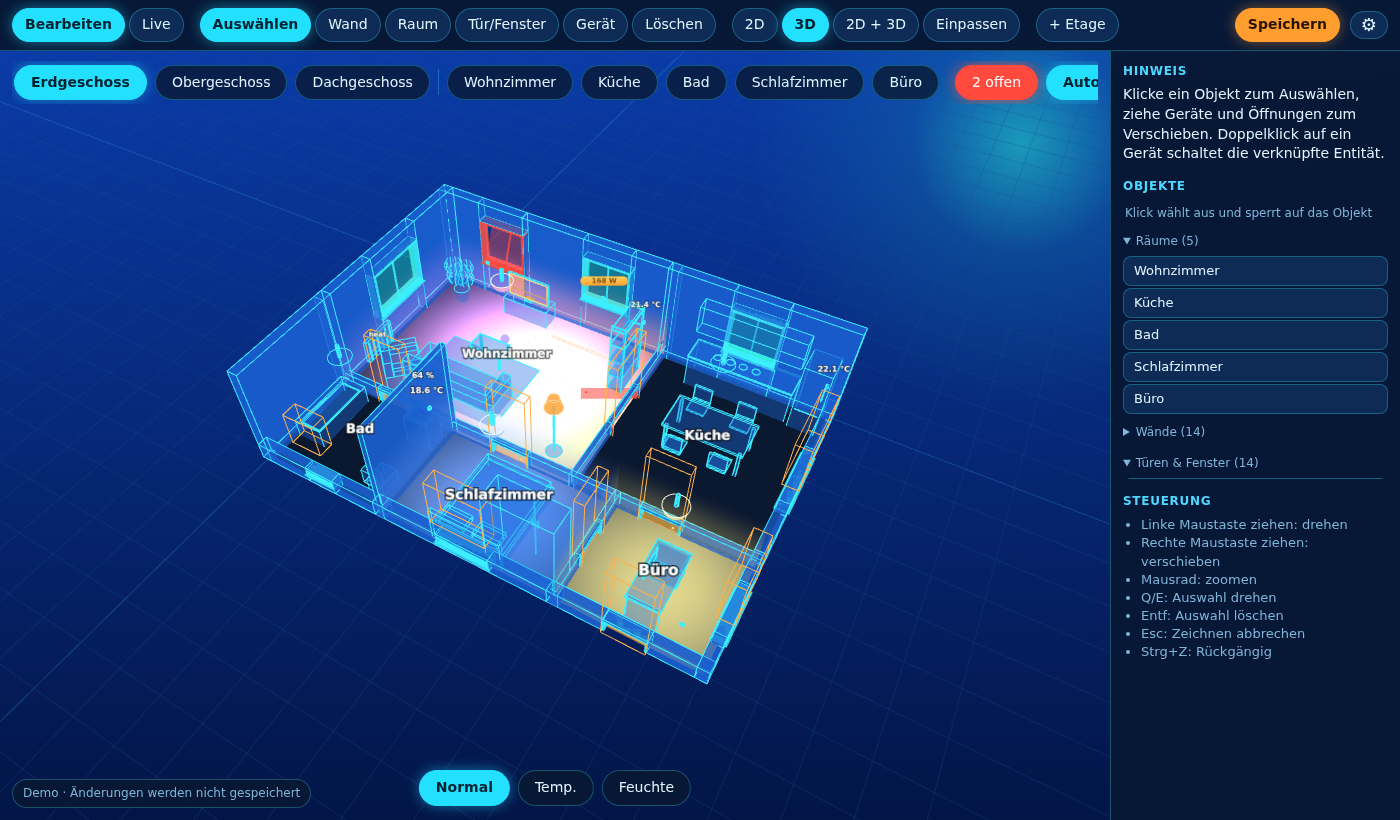
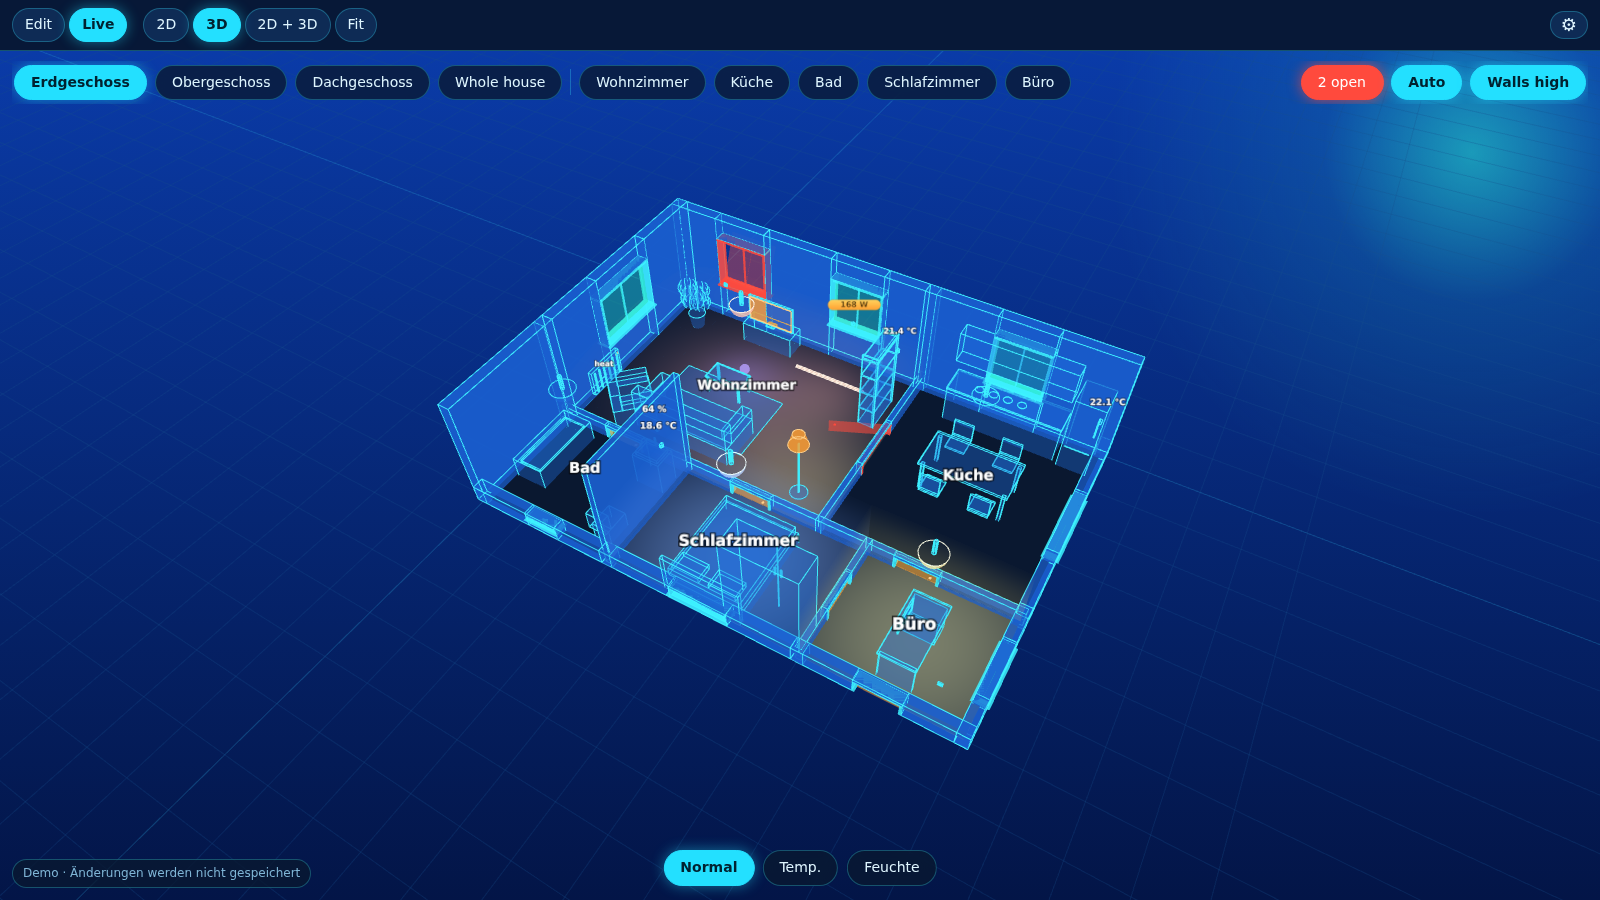
1.8.1: new README with feature overview and screenshots, architecture notes, house selector fix
Claude-Session: https://claude.ai/code/session_01Co8i9MW1FxCgsyBxKaj1v4

diff --git a/demo/demo-data.js b/demo/demo-data.js
@@ -134,7 +134,7 @@ const entities = {
 };
 
 let settings = {
-  language: 'de', theme: 'holo', units: 'metric', grid: 0.25, wallHeight: 2.6, wallThickness: 0.2,
+  language: 'en', theme: 'holo', units: 'metric', grid: 0.25, wallHeight: 2.6, wallThickness: 0.2,
   shadows: true, autosaveSeconds: 1.5, lowWalls: false, showLabels: true, cutaway: true,
 };
 

diff --git a/floorplan3d/rootfs/app/static/style.css b/floorplan3d/rootfs/app/static/style.css
@@ -267,3 +267,4 @@ body.kiosk #houseGroup { display: none; }
 #panelResizer:hover, #panelResizer.drag { background: var(--accent); opacity: .5; }
 body.live #panelResizer { display: none; }
 @media (max-width: 700px) { #panelResizer { display: none; } }
+#houseGroup[hidden] { display: none; }

diff --git a/README.md b/README.md
@@ -1,8 +1,8 @@
 <div align="center">
 
-# 3D Floorplan for Home Assistant
+# 🏠 3D Floorplan for Home Assistant
 
-**Draw your home, see it in 3D and control it right where things are.**
+### Draw your home, see it in 3D and control it right where things are.
 
 [![CI](https://github.com/wvssweber-max/HA-Floorplanner/actions/workflows/ci.yml/badge.svg)](https://github.com/wvssweber-max/HA-Floorplanner/actions/workflows/ci.yml)
 [![Release](https://img.shields.io/github/v/release/wvssweber-max/HA-Floorplanner?display_name=tag&sort=semver)](https://github.com/wvssweber-max/HA-Floorplanner/releases)
@@ -10,47 +10,127 @@
 ![Home Assistant add-on](https://img.shields.io/badge/Home%20Assistant-add--on-41BDF5?logo=homeassistant&logoColor=white)
 ![Ingress](https://img.shields.io/badge/Ingress-yes-success)
 ![No build step](https://img.shields.io/badge/frontend-no%20build%20step-lightgrey)
+![Made with love](https://img.shields.io/badge/made%20with-%E2%9D%A4-e0245e)
 
 [![Add repository to my Home Assistant](https://my.home-assistant.io/badges/supervisor_add_addon_repository.svg)](https://my.home-assistant.io/redirect/supervisor_add_addon_repository/?repository_url=https%3A%2F%2Fgithub.com%2Fwvssweber-max%2FHA-Floorplanner)
 
-![3D and 2D split view](docs/img/split.png)
+<img src="docs/img/3d.png" alt="3D hologram view of an apartment with live lights, sensors and open windows" width="900">
+
+*Your own floor plan as a glowing 3D hologram, live with your real lights, sensors, windows and scenes.*
+
+**[Features](#-features) · [Installation](#-installation) · [Quick start](#-quick-start) · [Tablets](#-wall-tablets--kiosk) · [Documentation](#-documentation) · [Roadmap](ROADMAP.md)**
 
 </div>
 
-> **Status: early development (0.x).** It works and is used daily, but layouts are stored in a versioned JSON format that may be migrated between releases. See the [roadmap](ROADMAP.md) and the [milestones](https://github.com/wvssweber-max/HA-Floorplanner/milestones).
+---
 
-## Highlights
+## ✨ Why this add-on?
+
+Most floor plan cards make you place icons on a picture. **3D Floorplan** lets you *build* your home: walls, rooms, doors, windows, stairs and furniture, then see it as a real 3D model in which every device is bound to a Home Assistant entity. Tap a lamp where it stands, switch a whole room, start a scene, see which window is open, all in one place, on your phone, your desktop or a wall tablet.
+
+It is made with a lot of love for my own smart home, and it is used every day. I hope it makes yours a little nicer, too. 💙
+
+## 🎯 Features
+
+### 🏗 Build your home
 
 | | |
 | --- | --- |
-| **Draw it yourself** | Walls, rooms and several floors on a snapping grid, in a 2D blueprint editor that is linked live with the 3D view (split view). Load a scan of your floor plan as a template and trace it. Placeholder blocks for floors you do not draw, stairs and stairwells with floor openings, basements, roofs, garden objects and a whole-house view |
-| **Real 3D** | Orbit, pan, zoom; doors and windows cut real openings; low-wall mode; translucent neon hologram design |
-| **Home Assistant native** | Every device is bound to an entity; lights glow in their real colour, sensors show values, HA areas group your entities |
-| **Whole room at once** | Switch all lights of a room, set colour for all of them and start the room's scenes in one place |
-| **Effects and colour** | Colour, brightness and warm/cold white per light; effect lists of Nanoleaf, WLED, Hue and others |
-| **Heat and humidity views** | Temperature and humidity colour the rooms |
-| **Permissions** | Only administrators edit; everyone else gets a read-only live view, enforced in the backend |
-| **Tablets** | One Home Assistant user per wall tablet: starts in its room, sees only the views you allow |
-| **Your own models** | 29 built-in objects (lights, furniture, light ball, LED strip …) plus your own `.glb` files |
-| **Offline and private** | three.js is bundled, no CDN, no cloud, opens through Ingress in the sidebar |
+| **Walls, rooms and floors** | Draw on a snapping grid in a 2D blueprint editor that is linked live with the 3D view (split view). Several floors, basement and roof, placeholder blocks for floors you do not draw |
+| **Trace your plan** | Load a scan or photo of your floor plan as a template, calibrate its scale and trace over it |
+| **Stairs** | Straight, L-shaped, U-shaped and spiral stairs with real floor openings |
+| **Doors and windows** | 12 presets: front door, glass door, double door, sliding door, single / double / triple window, balcony door, fixed glazing ... they cut real openings into the wall and open when the contact sensor reports *open* |
+| **Garden and surroundings** | Trees, bushes, lawn, terrace, pool, paths, fences and cars around the house, in natural colours |
+| **Whole-house view** | See all floors, basement and roof stacked as one building |
+| **Several houses** | One floor plan per house (yours, your parents', a holiday home ...), a house selector and `?house=` links for kiosks |
 
-## Screenshots
+<table>
+<tr>
+<td width="50%"><img src="docs/img/split.png" alt="2D and 3D split view"><br><sub><b>2D + 3D split view</b>: draw in the blueprint, see it in 3D instantly</sub></td>
+<td width="50%"><img src="docs/img/house.png" alt="Whole-house view"><br><sub><b>Whole-house view</b>: all floors stacked</sub></td>
+</tr>
+</table>
 
-| 3D view | 2D blueprint editor |
-| --- | --- |
-| ![3D](docs/img/3d.png) | ![2D](docs/img/2d.png) |
+### 🪑 Furnish it
 
-## Installation
+- **Furniture library with previews**, search and categories (Living, Kitchen, Bath, Bedroom, Office, Lighting, Tech, Outdoor, Decor). The search understands everyday names ("Fernseher", "Couch" ...)
+- **75+ built-in pieces**: sofas, beds, kitchens, bathroom, lamps, TVs (also wall-mounted), radiators, cameras, robot vacuum and more
+- **Your own 3D models**: upload any `.glb` file
+- **Pictures on walls**: upload a PNG / JPG / WebP and hang it, it clicks flat onto the nearest wall
+- **Exact sizes**: enter width, height and depth in metres, or drag the handles in the 2D plan. Tilt, roll and mirror pieces freely
+- **Groups**: combine pieces (e.g. a Nanoleaf logo) so they move, turn and mirror as one shape
+- **Wall stop**: furniture cannot be pushed through walls, it slides along them instead (can be switched off)
+- **Lock**: a checkbox before every item keeps it from being moved by accident
+
+<table>
+<tr>
+<td width="50%"><img src="docs/img/library.png" alt="Furniture library with previews"><br><sub><b>Furniture library</b> with previews, search and categories</sub></td>
+<td width="50%"><img src="docs/img/2d.png" alt="2D blueprint editor"><br><sub><b>2D blueprint editor</b> with snapping, dimensions and live state colours</sub></td>
+</tr>
+</table>
+
+### 💡 Control it
+
+- **Every device is a Home Assistant entity**: tap a lamp to switch it, dim it, pick a colour or warm / cool white
+- **Whole room at once**: all lights on / off, brightness and colour for the entire room, plus the room's scenes, in one panel
+- **Scenes where the light is**: the popup of a light lists every scene that contains it (e.g. *Gaming*)
+- **Effects**: effect lists of Nanoleaf, WLED, Hue and others; **Nanoleaf panel shapes** (triangle, hexagon, square, bar) for building your layout
+- **Realistic light**: lights glow in their real colour, with type-dependent light pools (a strip does not light the room like a ceiling lamp), dimmable
+- **Open windows and doors**: windows tilt open in 3D, **each pane of a double or triple window can have its own sensor**, an *n open* pill shows the overall state
+- **Heat and humidity views**: rooms are coloured by temperature or humidity
+- **Home Assistant areas**: entities are grouped by your areas and assigned automatically
+
+<table>
+<tr>
+<td width="50%"><img src="docs/img/room.png" alt="Room panel with whole-room control and scenes"><br><sub><b>Whole-room control</b>: lights, colour, brightness and scenes</sub></td>
+<td width="50%"><img src="docs/img/light.png" alt="Light popup with colour, brightness and scenes"><br><sub><b>Light popup</b>: tap a lamp right where it stands</sub></td>
+</tr>
+</table>
+
+### 🔒 Safe, private and dependable
+
+- **Permissions**: only chosen users edit, everyone else gets a read-only live view, enforced in the backend
+- **Offline and private**: three.js is bundled, no CDN, no cloud, no account; it opens through Ingress in the Home Assistant sidebar
+- **Backup and restore**: one file with all houses, settings, pictures and models. A safety copy is made before every restore
+- **Undo**: `Ctrl+Z` for everything you draw
+- **Your data stays yours**: layouts live in the add-on's `/data` folder and survive updates
+
+### 📱 Wall tablets / kiosk
+
+- One Home Assistant user per tablet: it starts in **its own room** and sees only the views you allow
+- **Low-power mode** for Fire tablets and other weak devices (automatic in kiosk mode): lower resolution, throttled animation, no shadows
+- Open a specific house with `?house=Parents`
+
+### 🎨 Look
+
+Hologram, dark and light theme, metric or imperial units, German and English UI.
+
+## 📦 Installation
 
 1. In Home Assistant open **Settings → Apps → App store → ⋮ → Repositories**.
 2. Add `https://github.com/wvssweber-max/HA-Floorplanner` (or press the button at the top).
 3. Reload the store, open **3D Floorplan**, **Install**, **Start** and enable **Show in sidebar**.
 
-Requires Home Assistant OS or Supervised (anything with the Add-on / App store). Details, permissions and tablet setup are in the [documentation](floorplan3d/DOCS.md).
+Requires Home Assistant OS or Supervised (anything with the Add-on / App store). Details on permissions and tablet setup are in the [documentation](floorplan3d/DOCS.md).
 
-## Try it without Home Assistant
+## 🚀 Quick start
 
-The demo is a single HTML file with an example apartment and simulated lights and sensors:
+| Action | How |
+| --- | --- |
+| Draw walls / rooms | Tool **Wall** `W` / **Room** `R`: click point by point, double-click or `Esc` finishes |
+| Add doors and windows | Tool **Door/Window** `O`, pick a preset, click a wall |
+| Place furniture | Tool **Device** `D`, pick a piece from the library, click the floor |
+| Link an entity | Select a device, search the entity in the side panel |
+| Resize | Drag the two square handles in the 2D plan, or type the size in metres |
+| Move / rotate | Drag it, `Q` / `E` rotate in 15° steps |
+| Lock an item | Tick the box before its name in the object list |
+| Live mode | Tap a device to control it, tap a room for the whole room |
+| Undo | `Ctrl+Z` |
+| Backup | *Houses & backup* in the side panel |
+
+## 🧪 Try it without Home Assistant
+
+The demo is a single HTML file with an example house and simulated lights and sensors:
 
 ```bash
 cd demo && npm install && npm run build      # → demo/dist/floorplan3d-demo.html
@@ -58,24 +138,13 @@ cd demo && npm install && npm run build      # → demo/dist/floorplan3d-demo.ht
 
 Open the file by double-click. Changes are not saved in the demo.
 
-## Quick start
+## 📚 Documentation
 
-| Action | How |
-| --- | --- |
-| Tools | Select `V`, Wall `W`, Room `R`, Door/Window `O`, Device `D`, Erase |
-| Draw walls / rooms | Click point by point, double-click or `Esc` finishes |
-| Move / rotate | Drag it; `Q` / `E` rotate in 15° steps |
-| Link an entity | Select a device → search the entity in the properties panel |
-| Live mode | Tap a device to control it; tap a room for the whole room |
-| Undo | `Ctrl+Z` |
-
-## Documentation
-
-- [User guide](floorplan3d/DOCS.md) – permissions, tablets and views, areas, whole-room control, Nanoleaf, 2D editor
-- [Architecture](docs/ARCHITECTURE.md) – how the add-on is built
+- [User guide](floorplan3d/DOCS.md): permissions, tablets and views, areas, whole-room control, Nanoleaf, 2D editor, houses, backup
+- [Architecture](docs/ARCHITECTURE.md): how the add-on is built
 - [Changelog](CHANGELOG.md) · [Roadmap](ROADMAP.md) · [Security policy](SECURITY.md)
 
-## Development
+## 🛠 Development
 
 ```bash
 pip install -r requirements-dev.txt
@@ -83,12 +152,14 @@ pytest -q                                                   # backend tests
 DATA_DIR=./data python floorplan3d/rootfs/app/server.py     # http://localhost:8099 (standalone mode)
 ```
 
-The browser end-to-end tests are described in [tests/e2e/README.md](tests/e2e/README.md). New to Git? Start with the [beginner guide (German)](docs/GIT-EINSTIEG.md).
+The browser end-to-end tests are described in [tests/e2e/README.md](tests/e2e/README.md). New to Git? Start with the [beginner guide (German)](docs/GIT-EINSTIEG.md). Every push to `main` that raises the version in `floorplan3d/config.yaml` creates a GitHub release automatically.
 
-## Contributing
+## 🤝 Contributing
 
-Bug reports, ideas and pull requests are welcome, see [CONTRIBUTING.md](CONTRIBUTING.md) and the [issue templates](https://github.com/wvssweber-max/HA-Floorplanner/issues/new/choose). Please follow the [Code of Conduct](CODE_OF_CONDUCT.md).
+Bug reports, ideas and pull requests are welcome, see [CONTRIBUTING.md](CONTRIBUTING.md) and the [issue templates](https://github.com/wvssweber-max/HA-Floorplanner/issues/new/choose). Please follow the [Code of Conduct](CODE_OF_CONDUCT.md). If you like the project, a ⭐ on GitHub makes my day.
 
-## License
+## 📄 License
 
 [MIT](LICENSE) © 2026 Florian Weber. Bundles [three.js](https://threejs.org) (MIT).
+
+<div align="center"><sub>Made with ❤ for the Home Assistant community</sub></div>

diff --git a/docs/ARCHITECTURE.md b/docs/ARCHITECTURE.md
@@ -6,7 +6,10 @@ Browser (Home Assistant sidebar, Ingress)
  ▼
 server.py  (aiohttp, port 8099)
  ├─ /                 static frontend
- ├─ /api/layout       floors, walls, rooms, devices      → /data/layout.json
+ ├─ /api/layout       floors, walls, rooms, devices      → /data/layout.json (first house), /data/layouts/<id>.json
+ ├─ /api/houses       house index (several floor plans)  → /data/houses.json
+ ├─ /api/backup       export / import everything         → /data/backups/ (safety copies)
+ ├─ /api/backgrounds  floor plan templates, wall pictures → /data/backgrounds/
  ├─ /api/settings     look, units, users/rooms/views     → /data/settings.json
  ├─ /api/models       uploaded GLB models                → /data/models/
  ├─ /api/entities     entity list with state             ← Home Assistant REST API

diff --git a/CHANGELOG.md b/CHANGELOG.md
@@ -4,6 +4,12 @@ All notable changes are documented here. The format follows [Keep a Changelog](h
 
 ## [Unreleased]
 
+## [1.8.1] - 2026-09-30
+### Changed
+- Completely revised README with feature overview and new screenshots (3D, 2D, split view, whole house, library, room panel, light popup)
+### Fixed
+- The house selector in the header was visible even with a single house
+
 ## [1.8.0] - 2026-09-30
 ### Added
 - **Resizable side panel**: drag its left edge to make it wider (remembered per browser)
